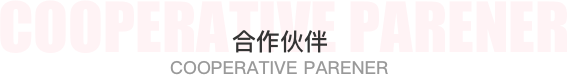
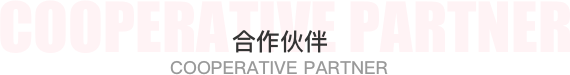
解决显示bug

Changed region(s): [[0.2998, 0.8, 0.6896, 0.9867], [0.3898, 0.4, 0.5996, 0.72]]

diff --git a/index.html b/index.html
@@ -166,8 +166,8 @@
 	<div class="w1200 page2-w1200 clearfloat">
 		<div class="page2-circle"></div>
 		<div class="page2-logo">
-			<p class="white f36 lineheight50 fw400">devolopment</p>
-			<p class="white f36 lineheight50 fw400">history</p>
+			<!-- <p class="white f36 lineheight50 fw400">devolopment</p> -->
+			<!-- <p class="white f36 lineheight50 fw400">history</p> -->
 			<p class="white f16">QOS：下一代企业级应用社区</p>
 		</div>
 		<ul id="page2Main" class="clearfloat page2-con">
@@ -182,7 +182,7 @@
 				<div class="before-animate top2">
 					<h1></h1>
 					<p style="text-align: left;" class='mtb'>2018Q3</p>
-					<p style="text-align: left;">完成私募；白皮书发布；战略合作伙伴签约；核心社区建设，社区突破5万人</p>
+					<p style="text-align: left;">完成私募；白皮书发布；战略合作伙伴签约；核心社区建设</p>
 				</div>
 			</li>
 			<li>
@@ -223,7 +223,7 @@
 				<div class="abs">
 					<div class="profile">
 						<p>前奥马电器（002668）副总经理，战略发展部总经理，区块链业务负责人，钱包投资管理合伙人，负责上市公司战略和投资业务。</p>
-						<p class="mt20">汉世纪创投执行总裁，16年资本市场及创业投资经验，曾参与主导投资安硕信息（300380）、万得资讯（Wind）、通付盾等知名企业。</p>
+						<p class="mt18">汉世纪创投执行总裁，16年资本市场及创业投资经验，曾参与主导投资安硕信息（300380）、万得资讯（Wind）、通付盾等知名企业。</p>
 					</div>
 				</div>
 			</div>
@@ -237,7 +237,7 @@
 				<div class="abs">
 					<div class="profile">
 						<p>曾任奥马电器（002668）投资总监，作为核心成员参与上市公司多支产业投资基金设立，主导多个金融科技项目投资，钱包集团体系资源协调整合。</p>
-						<p class="mt20">北京师范大学本科，中国社会科学院研究生院硕士。</p>
+						<p class="mt18">北京师范大学本科，中国社会科学院研究生院硕士。</p>
 					</div>
 				</div>
 			</div>
@@ -248,8 +248,8 @@
 				</div>
 				<div class="abs">
 					<div class="profile">
-						<p>安全专家，作为核心成员参与中国第一款通过CC EAL4+认证的国产安全芯片项目主导钱包集团支付清算协会数字货币重点研究课题以及多个区块链金融落地项目</p>
-						<p class="mt20">清华大学自动化系本科、硕士、博士</p>
+						<p>安全专家，作为核心成员参与中国第一款通过CC EAL4+认证的国产安全芯片项目。主导钱包集团支付清算协会数字货币重点研究课题，以及多个区块链金融落地项目。</p>
+						<p class="mt18">清华大学自动化系本科、硕士、博士</p>
 					</div>
 				</div>
 			</div>
@@ -261,7 +261,7 @@
 				<div class="abs">
 					<div class="profile">
 						<p>曾任奥马电器（002668）架构负责人，曾参与中国人民银行法定数字货币原型设计工作。阿里巴巴工作6年，担任资深开发、架构师职位。</p>
-						<p class="mt20">13年开发架构经验，擅长大型互联网系统架构、技术管理。</p>
+						<p class="mt18">13年开发架构经验，擅长大型互联网系统架构、技术管理。</p>
 					</div>
 				</div>
 			</div>
@@ -273,7 +273,7 @@
 				<div class="abs">
 					<div class="profile">
 						<p>曾任钱包生活市场总监曾任腾讯视频市场品牌负责人，负责腾讯视频整体品牌曾任职于爱奇艺市场部、中国广播电视出版社等行业记者出身，在互联网市场营销、品牌建设领域具有丰富工作经验</p>
-						<p class="mt20">中国传媒大学硕士</p>
+						<p class="mt18">中国传媒大学硕士</p>
 					</div>
 				</div>
 			</div>
@@ -291,7 +291,7 @@
 						<p>中国第三方支付行业元老级创业家</p>
 						<p>中国支付清算协会常务理事</p>
 						<p>清华大学五道口金融学院EMBA</p>
-						<p class="mt20">清华大学五道口金融学院互联网金融协会主席团成员</p>
+						<p class="mt18">清华大学五道口金融学院互联网金融协会主席团成员</p>
 					</div>
 				</div>
 			</div>
@@ -302,9 +302,8 @@
 				</div>
 				<div class="abs">
 					<div class="profile">
-						<p>FCoin创始人 歌者资本合伙人 EAL4+认证的国产安全芯片项目主导钱包集团支付清算协会数字货币重点研究课题以及多个区块链金融落地项目</p>
-						<p></p>
-						<p class="mt20">区块链行业早期开拓者，通证经济实践领军人物《区块链：定义未来金融与经济新格局》作者</p>
+						<p>FCoin创始人 歌者资本合伙人</p>
+						<p class="mt18">区块链行业早期开拓者，通证经济实践领军人物《区块链：定义未来金融与经济新格局》作者</p>
 					</div>
 				</div>
 			</div>
@@ -363,7 +362,7 @@
 <script src="js/download.js" charset="utf-8"></script>
 <script type="text/javascript">
 	$('#getPdf').on('click', function() {
-		downloadFile('QOS白皮书-V0.6', 'static/QOS白皮书-V0.6.pdf')
+		downloadFile('QOS白皮书-V0.6', 'static/QOS-V0.6.pdf')
 	})
 </script>
 </body>

diff --git a/css/page.corporation.css b/css/page.corporation.css
@@ -113,14 +113,15 @@
   transform: translateX(-50%);
 }
 .logo1 {
-  width: 620px;
+  width: 697px;
   height: 52px;
   margin: 50px auto 75px;
-  background:  url('../img/logo1.png') no-repeat center;
+  background:  url('../img/logo11.png') no-repeat center;
   background-size: contain;
 }
 .logo2 {
-  background:  url('../img/logo2.png') no-repeat center;
+  width: 697px;
+  background: url('../img/logo2.png') no-repeat center;
 }
 .logo3 {
   height: 102px;

diff --git a/css/page3.css b/css/page3.css
@@ -58,13 +58,20 @@
   background:  url('../img/personbg.png') no-repeat center;
   background-size: 100% 100%;
 }
+/* for Chrome */
+.profile::-webkit-scrollbar {
+    display: none;
+}
+.profile::-moz--scrollbar {
+    display: none;
+}
 .profile {
   width: 100%;
   height: 100%;
   position: absolute;
   left: 0;
   top: 0;
-  padding: 30px 38px;
+  padding: 30px 28px;
   box-sizing: border-box;
   font-size: 14px;
   color: #E6E6E9;

diff --git a/css/main.css b/css/main.css
@@ -106,8 +106,8 @@ textarea {
 .mt10 {
   margin-top: 10px;
 }
-.mt20 {
-  margin-top: 20px;
+.mt18 {
+  margin-top: 16px;
 }
 .mt35 {
   margin-top: 35px;
